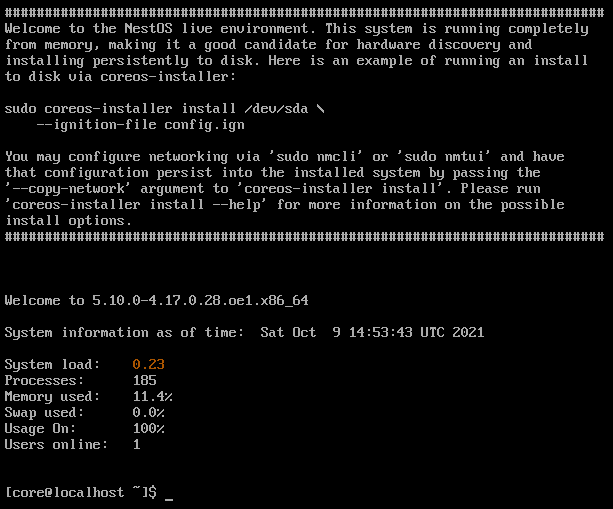
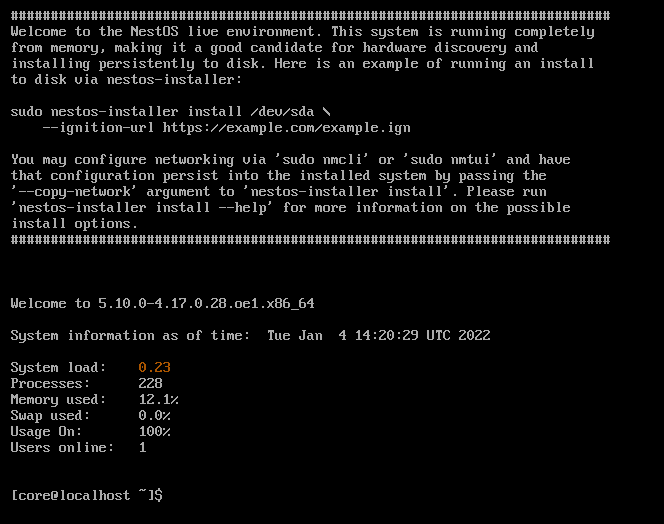
update NestOS document

diff --git a/docs/定制NestOS.md b/docs/定制NestOS.md
@@ -1,0 +1,50 @@
+# 定制NestOS
+
+我们可以使用nestos-installer 工具对原始的NestOS ISO文件进行加工，将Ignition文件打包进去从而生成定制的 NestOS ISO文件。使用定制的NestOS ISO文件可以在系统启动完成后自动执行NestOS的安装，因此NestOS的安装会更加简单。
+
+在开始定制NestOS之前，需要做如下准备工作：
+
+- 下载 NestOS ISO
+- 准备 config.ign文件
+
+## 生成定制NestOS ISO文件
+
+### 设置参数变量
+
+```
+$ export COREOS_ISO_ORIGIN_FILE=nestos-LTS.20211009.dev.0-live.x86_64.iso
+$ export COREOS_ISO_CUSTOMIZED_FILE=my-nestos.iso
+$ export IGN_FILE=config.ign
+```
+
+### ISO文件检查
+
+确认原始的NestOS ISO文件中是没有包含Ignition配置。
+
+```
+$ nestos-installer iso ignition show $COREOS_ISO_ORIGIN_FILE 
+
+Error: No embedded Ignition config.
+```
+
+### 生成定制NestOS ISO文件
+
+将Ignition文件和原始NestOS ISO文件打包生成定制的NestOS ISO文件。
+
+```
+$ nestos-installer iso ignition embed $COREOS_ISO_ORIGIN_FILE --ignition-file $IGN_FILE $COREOS_ISO_ORIGIN_FILE --output $COREOS_ISO_CUSTOMIZED_FILE
+```
+
+### ISO文件检查
+
+确认定制NestOS ISO 文件中已经包含Ignition配置了
+
+```
+$ nestos-installer iso ignition show $COREOS_ISO_CUSTOMIZED_FILE
+```
+
+执行命令，将会显示Ignition配置内容
+
+## 安装定制NestOS ISO文件
+
+使用定制的 NestOS ISO 文件可以直接引导安装，并根据Ignition自动完成NestOS的安装。在完成安装后，我们可以直接在虚拟机的控制台上用core/password登录NestOS。

diff --git a/docs/zincati自动更新使用.md b/docs/zincati自动更新使用.md
@@ -1,6 +1,6 @@
 # zincati自动更新使用
 
-zincati负责NestOS的自动更新，zincati通过cincincati提供的后端来检查当前是否有可更新版本，若检测到有可能新版本，会通过rpm-ostree进行下载。
+zincati负责NestOS的自动更新，zincati通过cincinnati提供的后端来检查当前是否有可更新版本，若检测到有可能新版本，会通过rpm-ostree进行下载。
 
 目前系统默认关闭zincati自动更新服务，可通过修改配置文件设置为开机自动启动自动更新服务。
 
@@ -9,17 +9,17 @@ vi /etc/zincati/config.d/95-disable-on-dev.toml
 ```
 
 将updates.enabled设置为true
-同时增加配置文件，修改cincincati后端地址
+同时增加配置文件，修改cincinnati后端地址
 
 ```
-vi /etc/zincati/config.d/update-cincincati.toml
+vi /etc/zincati/config.d/update-cincinnati.toml
 ```
 
 添加如下内容
 
 ```
 [cincinnati]
-base_url="http://10.1.110.88:8080"
+base_url="http://nestos.org.cn:8080"
 ```
 
 重新启动zincati服务

diff --git a/docs/快速开始.md b/docs/快速开始.md
@@ -25,8 +25,7 @@ NestOS 初次启动如下图所示
 
 ![image-20211014201036415](graph/快速开始/image-20211014201036415.png)
 
-初次启动 NestOS ，ignition 尚未安装，可根据系统提示使用 coreos-installer 组件进行 ignition的安
-装。
+初次启动 NestOS ，ignition 尚未安装，可根据系统提示使用 nestos-installer 组件进行ignition的安装。
 
 ![image-20211014201046509](graph/快速开始/image-20211014201046509.png)
 
@@ -101,7 +100,7 @@ r9AkQrQ/3j8WsejvqseWIi1kq68pqvtcBJkCMiIfzIoUgCgcolw3fZprDhgfau8= root@host-12-0-
 如下为最简单的 config.bu 文件
 
 ```
-variant: NestOS
+variant: fcos
 version: 1.1.0
 passwd:
   users:
@@ -144,7 +143,7 @@ scp root@10.1.110.88:/root/config.ign /root            #从10.1.110.88拷贝,请
 根据系统所给提示，执行如下指令完成安装。
 
 ```
-coreos-installer install /dev/sda --ignition-file config.ign
+nestos-installer install /dev/sda --ignition-file config.ign
 ```
 
 安装完成后重启 NestOS 。

diff --git a/docs/K8S+iSulad搭建.md b/docs/K8S+iSulad搭建.md
@@ -233,7 +233,7 @@ sha256:73d337f5edd79dd4db997d98d329bd98020b712f8d7833c33a85d8fe44d0a4f5 --cri-
 socket=/var/run/isulad.sock
 ```
 
-**注意**:添加--cri-socket=/var/run/isulad.sock以使用isula为容器引擎
+**注意**:添加--cri-socket=/var/run/isulad.sock以使用isulad为容器引擎
 查看下载好的镜像
 
 ```
